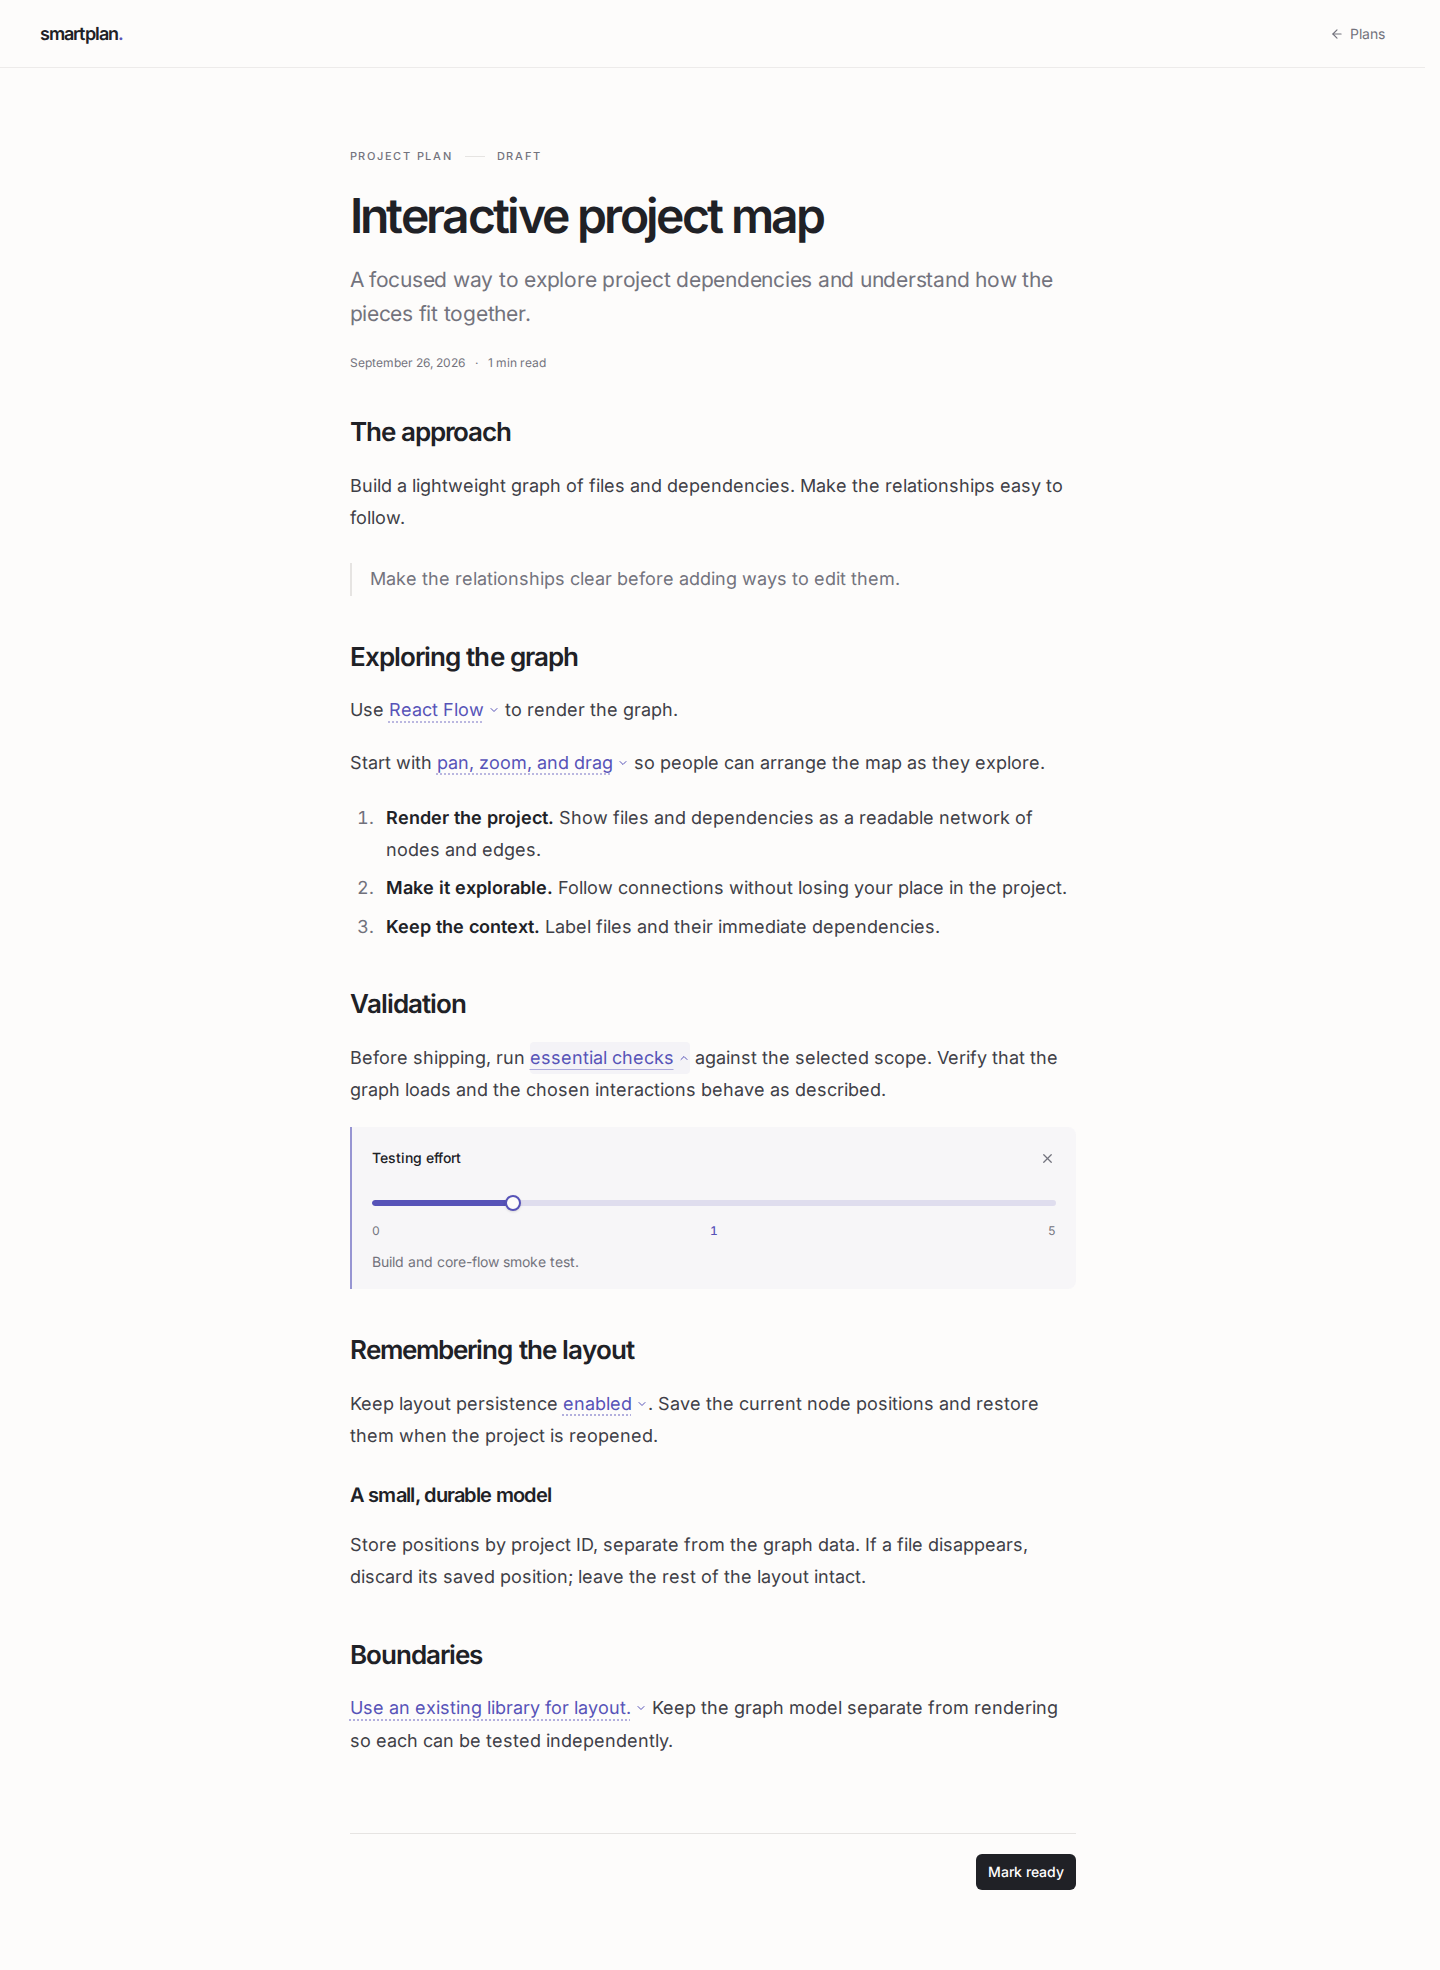
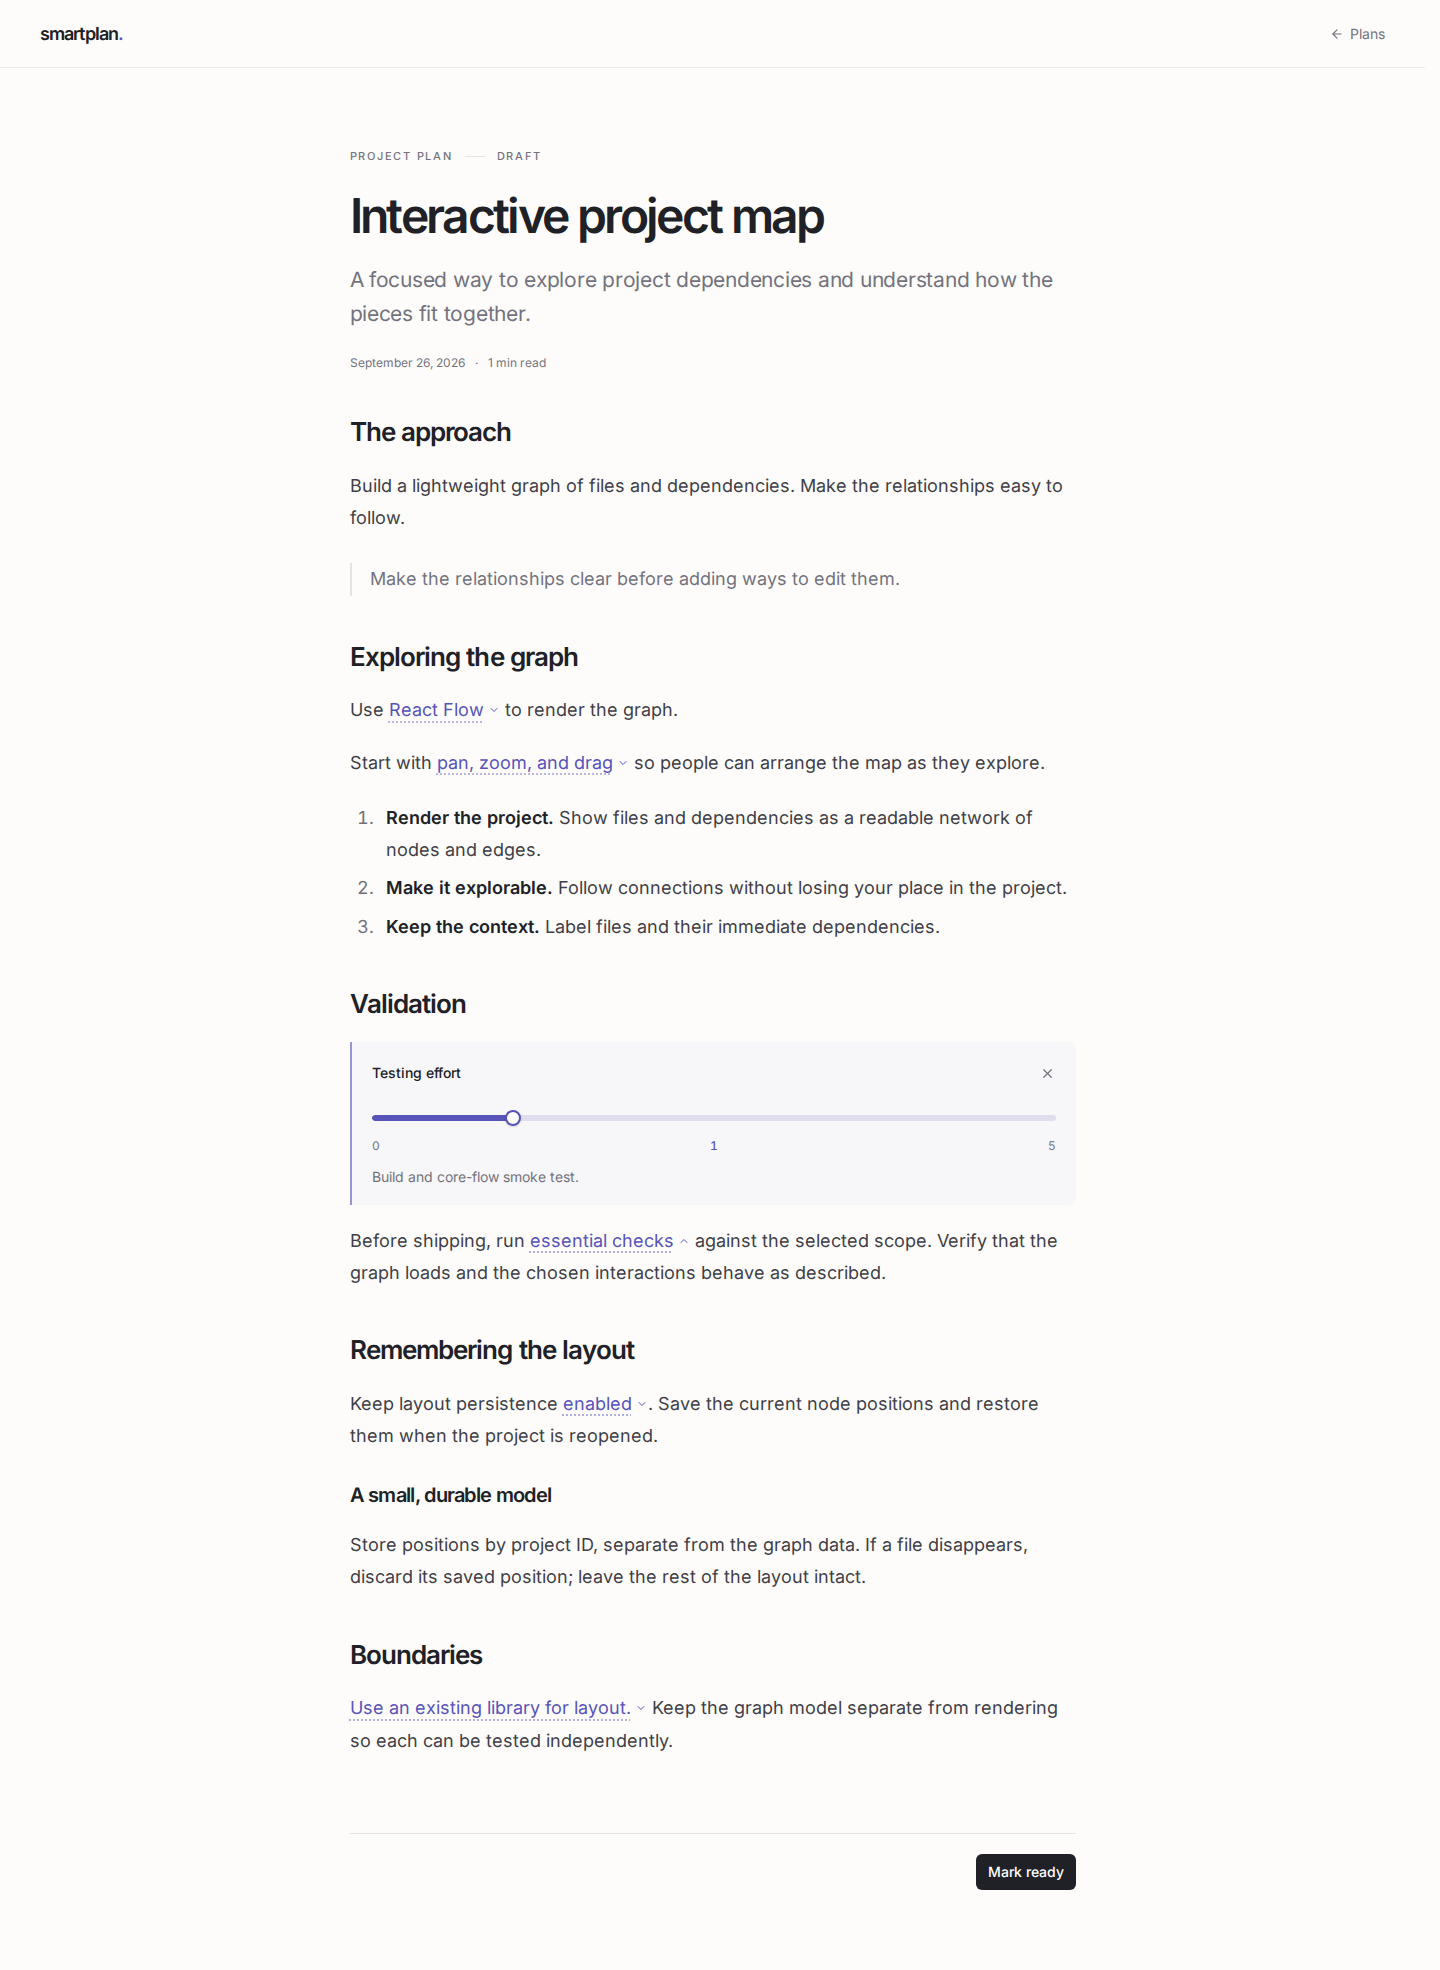
Keep expanded inputs above changing plan text

Changed region(s): [[0.25, 0.5264, 0.625, 0.6503], [0.6562, 0.6193, 0.7188, 0.6503], [0.6562, 0.5264, 0.7188, 0.5574]]

diff --git a/src/lib/inline-inputs.ts b/src/lib/inline-inputs.ts
@@ -21,7 +21,7 @@ export function inputSummary(p: Parameter): string {
 }
 
 // Rule wrappers keep their place in the tree. Passage controls live outside
-// replaceable prose; normal controls follow their containing Markdown block.
+// replaceable prose; normal controls precede their containing Markdown block.
 export function inlineInputs({ scope = "plan", grouped = false } = {}) {
   return (tree: Root) => {
     function blocks(parent: Root | Element) {
@@ -50,7 +50,6 @@ export function inlineInputs({ scope = "plan", grouped = false } = {}) {
         }
         walk(block);
         return [
-          block,
           ...(grouped
             ? []
             : Array.from(panels, ([id, panel]): Element => ({
@@ -59,6 +58,7 @@ export function inlineInputs({ scope = "plan", grouped = false } = {}) {
                 properties: { "data-input-id": id, "data-panel-id": panel },
                 children: [],
               }))),
+          block,
         ];
       });
     }

diff --git a/src/components/plan-content.tsx b/src/components/plan-content.tsx
@@ -146,11 +146,6 @@ function Passage({ id, scope }: { id: string; scope: string }) {
   const content = passage && selectPassage(passage, parameter?.value);
   return (
     <div data-passage={id}>
-      <Document
-        source={content ?? "Passage unavailable."}
-        scope={scope}
-        grouped
-      />
       {plan.parameters.map((p) => (
         <Panel
           key={p.id}
@@ -158,6 +153,11 @@ function Passage({ id, scope }: { id: string; scope: string }) {
           panel={`${scope}/passage/${encodeURIComponent(p.id)}`}
         />
       ))}
+      <Document
+        source={content ?? "Passage unavailable."}
+        scope={scope}
+        grouped
+      />
     </div>
   );
 }

diff --git a/src/routes/api-docs.tsx b/src/routes/api-docs.tsx
@@ -29,7 +29,7 @@ function Docs() {
             <code>summaries</code> provide short labels, while{" "}
             <code>previews</code> explain values inside the expanded control.
             References in paragraphs, headings, lists, quotes, and tables expand
-            below their containing block. Repeated references share one value.
+            above their containing block. Repeated references share one value.
             Only referenced parameters appear.
           </p>
           <p>

diff --git a/README.md b/README.md
@@ -49,7 +49,7 @@ Upload a `.md` file for a plain reading experience, or upload JSON / use the API
 }
 ```
 
-`[label](input:id)` references a parameter by ID. The rendered link text is the current value, or its short `summaries` entry. `previews` supplies the longer explanation shown with the expanded control; `description` is its fallback. Each control appears below the containing Markdown block. References in lists, quotes, headings, and tables work too. Repeated references share a value. Unknown input references are rejected on create/update; parameters without references do not appear. Code samples are never interpreted as controls.
+`[label](input:id)` references a parameter by ID. The rendered link text is the current value, or its short `summaries` entry. `previews` supplies the longer explanation shown with the expanded control; `description` is its fallback. Each control appears above the containing Markdown block. References in lists, quotes, headings, and tables work too. Repeated references share a value. Unknown input references are rejected on create/update; parameters without references do not appear. Code samples are never interpreted as controls.
 
 Only one adjustment is open at a time. Enter/Space opens it, Escape or the close button collapses it and restores focus. Adjustments stay local until **Save draft** or **Mark ready**. Reset restores a value from the immutable original. Failed saves preserve the local draft; leaving with unsaved changes prompts the browser’s normal confirmation. Marking ready does not call an agent.
 
@@ -93,7 +93,7 @@ The parameter’s type determines how `equals` is parsed: exact text, a numeric 
 
 A controlling input must be reachable outside conditions and in every alternative of its containing passages. Place it outside a passage if some cases intentionally omit it. Validation checks every authored branch, regardless of current values, and rejects unknown references, duplicate IDs/cases, impossible case values, missing fallbacks/coverage, recursive passages, and unreachable controllers. Passage nesting is limited to eight levels and expanded plans to 20,000 Markdown nodes.
 
-Passage controls remain mounted below the replaceable passage. A value change can replace a sentence with a list or headings while retaining the open control and cursor. Hidden sections keep their values; if the active control becomes hidden, focus returns to an available controller. There is no added rule-authoring UI.
+Passage controls remain mounted above the replaceable passage. A value change can replace a sentence with a list or headings while retaining the open control and cursor. Hidden sections keep their values; if the active control becomes hidden, focus returns to an available controller. There is no added rule-authoring UI.
 
 **For agents:** fetch `?full=true`, use each current `parameters[].value` to select the matching passage case (or its explicit fallback), and include `when` contents only when the typed equality matches. Recursively apply the same rules to nested passages and sections, then substitute inline values. Only those resolved instructions apply. Authored Markdown and rules remain unchanged when a user adjusts a value; the API diff contains parameter changes, not a second generated document.
 
